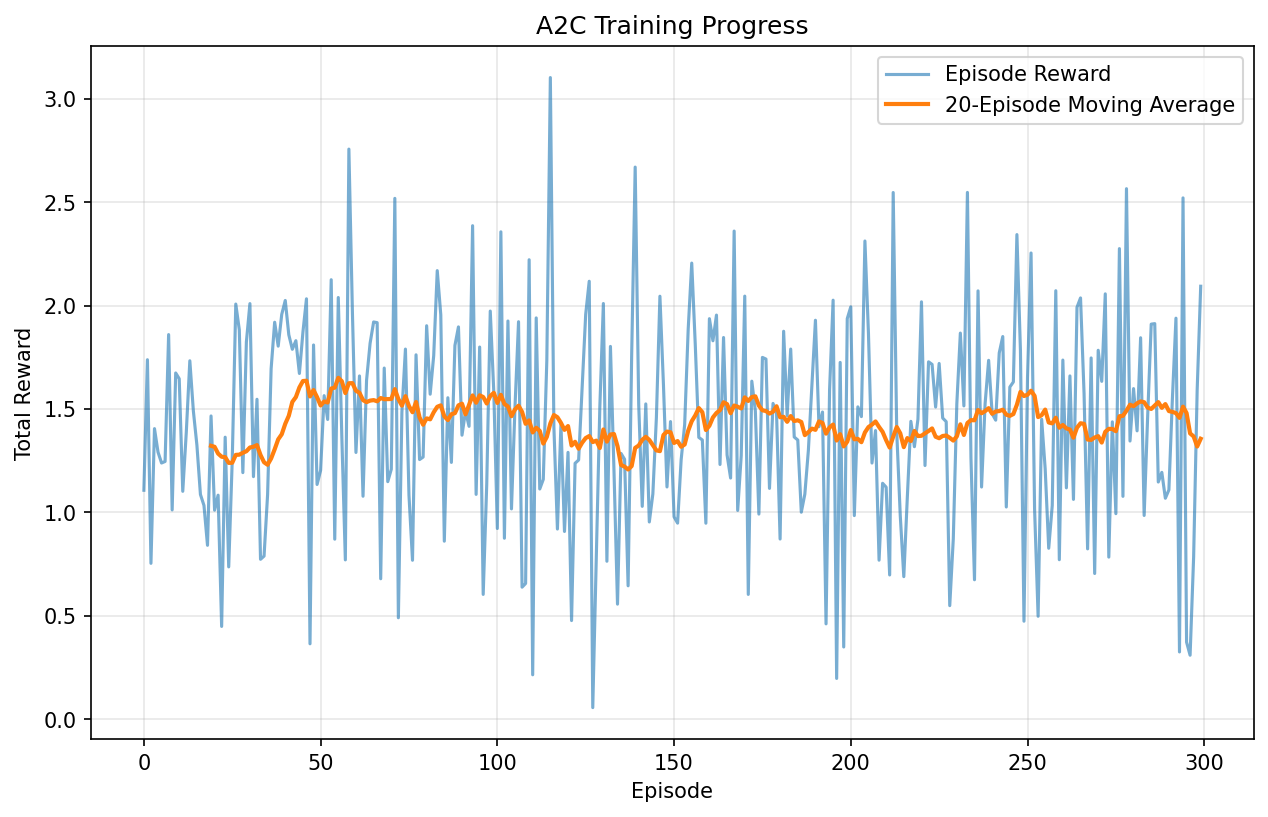
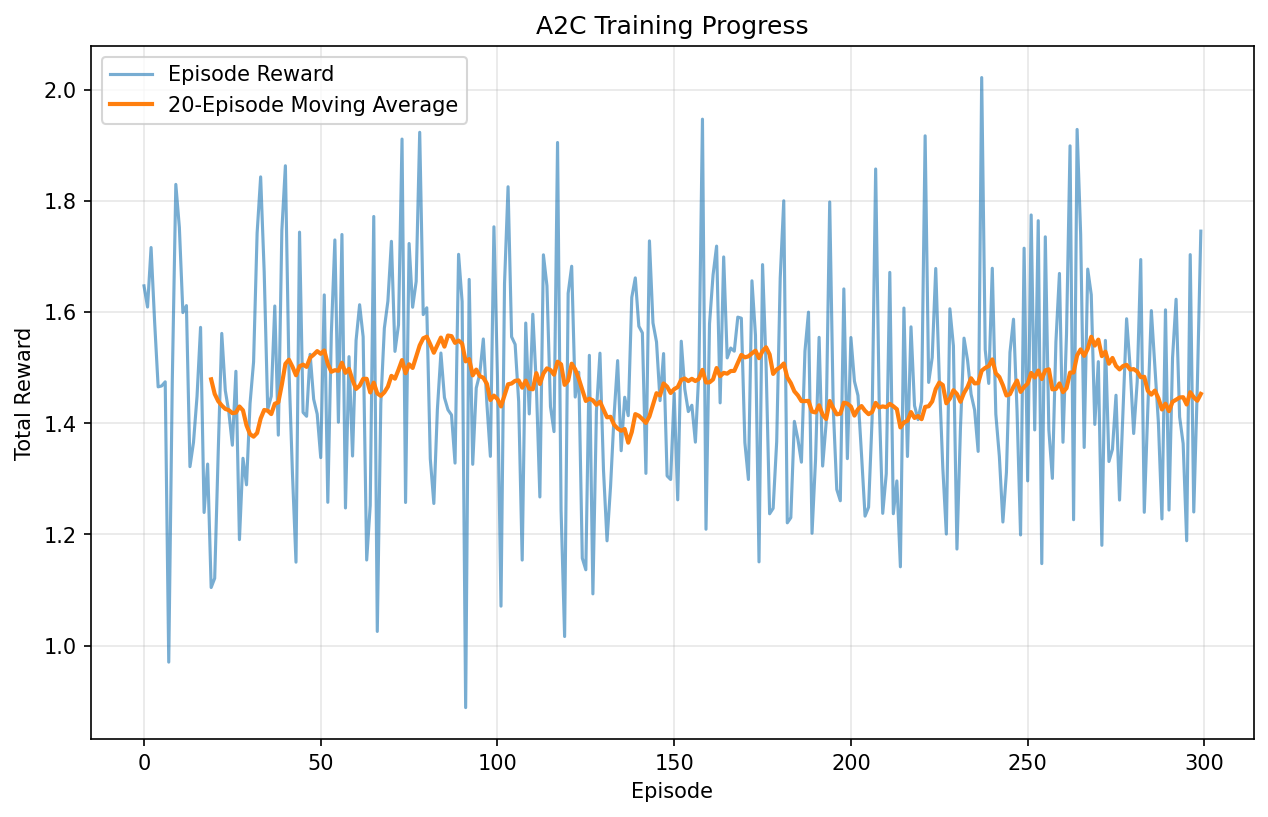
added multiple industries

diff --git a/Final/main2_finrl.py b/Final/main2_finrl.py
@@ -551,8 +551,38 @@ def plot_training_progress(rewards, save_path='results/training_progress.png'):
 # Main Execution
 # ============================================================================
 if __name__ == "__main__":
-    # Configuration
-    TICKER_LIST = ['AAPL', 'MSFT', 'GOOGL', 'AMZN', 'META', 'TSLA', 'NVDA']
+    # Configuration - Diversified Portfolio Across Sectors
+    # This provides lower correlation and allows agent to learn meaningful allocations
+    TICKER_LIST = [
+        # Technology (30%)
+        'AAPL',   # Apple - Consumer Electronics
+        'MSFT',   # Microsoft - Software
+        'NVDA',   # Nvidia - Semiconductors
+        'GOOGL',  # Google - Internet
+        'META',   # Meta - Social Media
+        
+        # Healthcare (20%)
+        'JNJ',    # Johnson & Johnson - Pharmaceuticals
+        'UNH',    # UnitedHealth - Health Insurance
+        'PFE',    # Pfizer - Biotech
+        
+        # Finance (20%)
+        'JPM',    # JPMorgan - Banking
+        'BAC',    # Bank of America - Banking
+        'GS',     # Goldman Sachs - Investment Banking
+        
+        # Energy (10%)
+        'XOM',    # Exxon Mobil - Oil & Gas
+        'CVX',    # Chevron - Oil & Gas
+        
+        # Consumer (10%)
+        'WMT',    # Walmart - Retail
+        'PG',     # Procter & Gamble - Consumer Goods
+        
+        # Industrials (10%)
+        'BA',     # Boeing - Aerospace
+        'CAT',    # Caterpillar - Heavy Machinery
+    ]
     START_DATE = '2020-01-01'
     END_DATE = '2023-12-31'
     LOOKBACK = 60  # Reduced from 252 for shorter time series
@@ -616,7 +646,7 @@ if __name__ == "__main__":
         lr=3e-2,
         gamma=0.99,
         value_coef=0.5,
-        entropy_coef=0.01,
+        entropy_coef=0.005,  # Reduced from 0.01 to allow more concentrated positions
         print_every=30,
         device=device
     )
